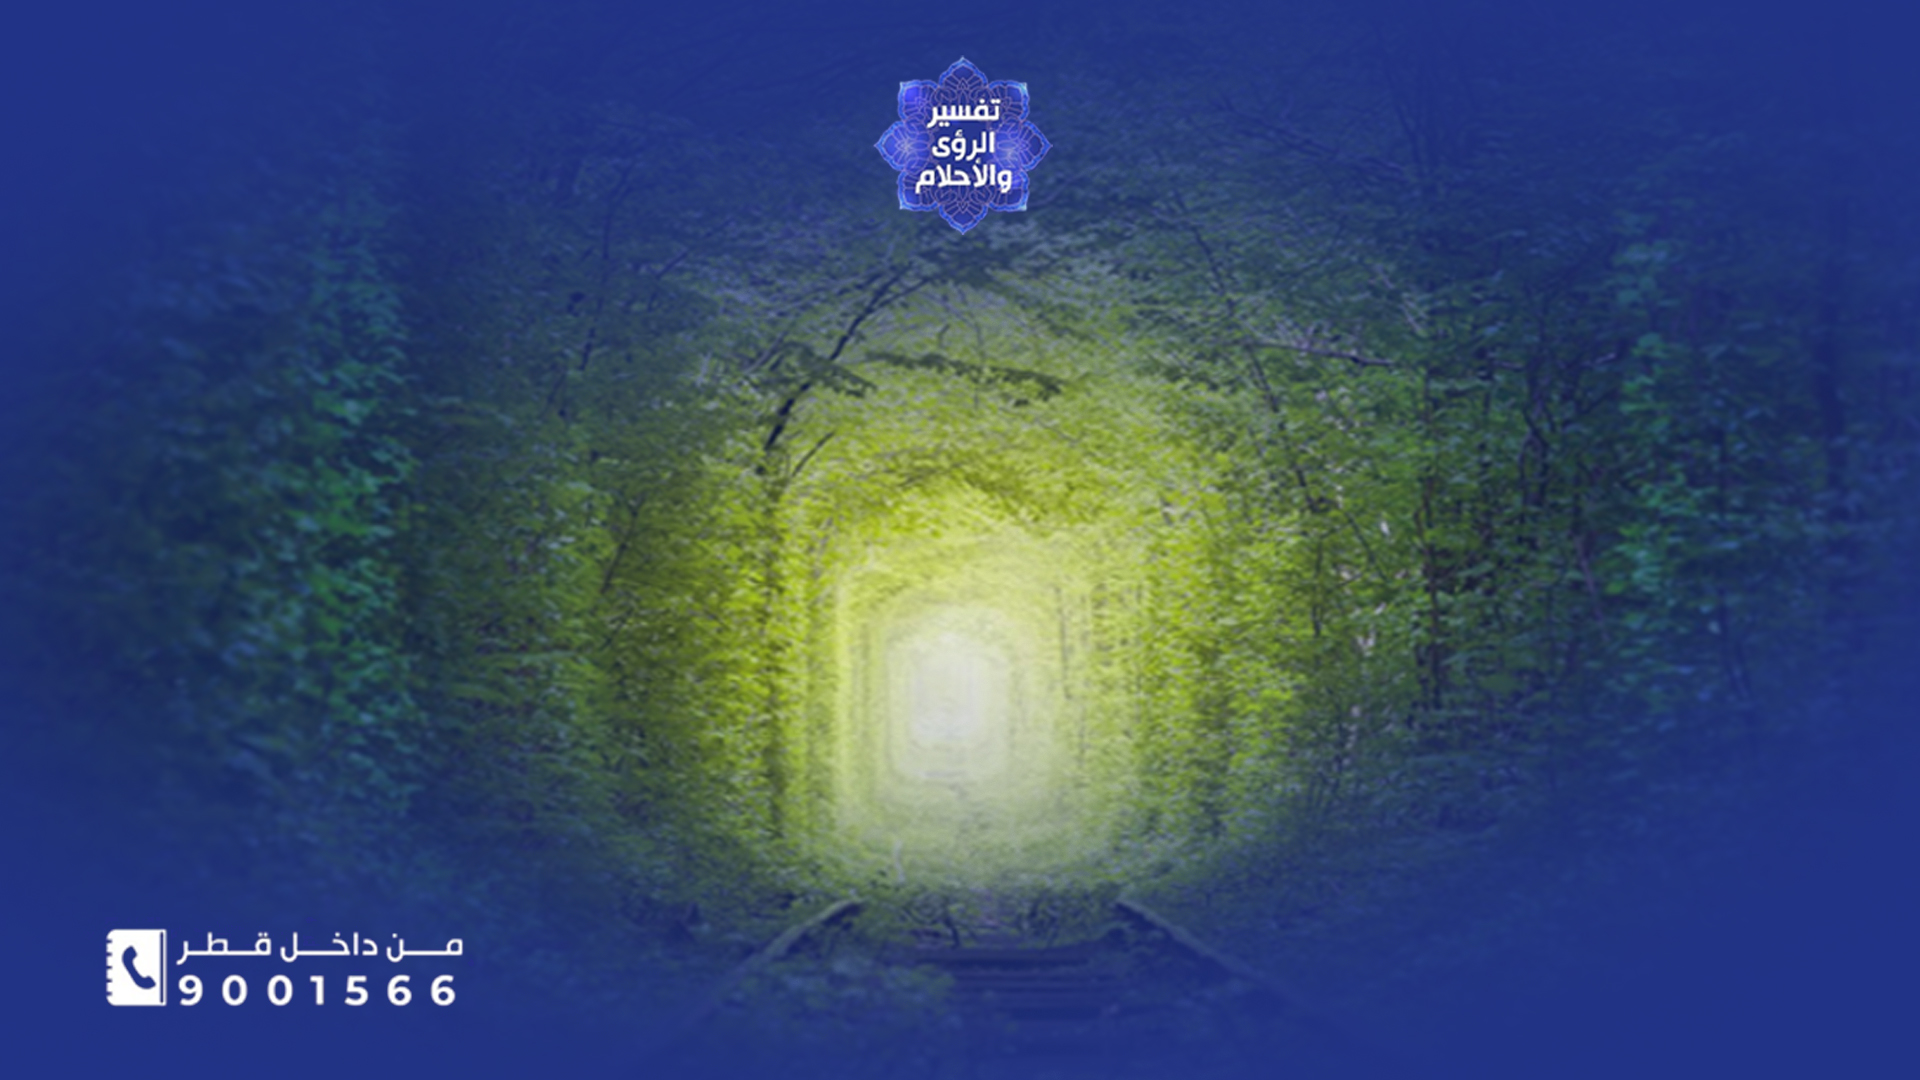
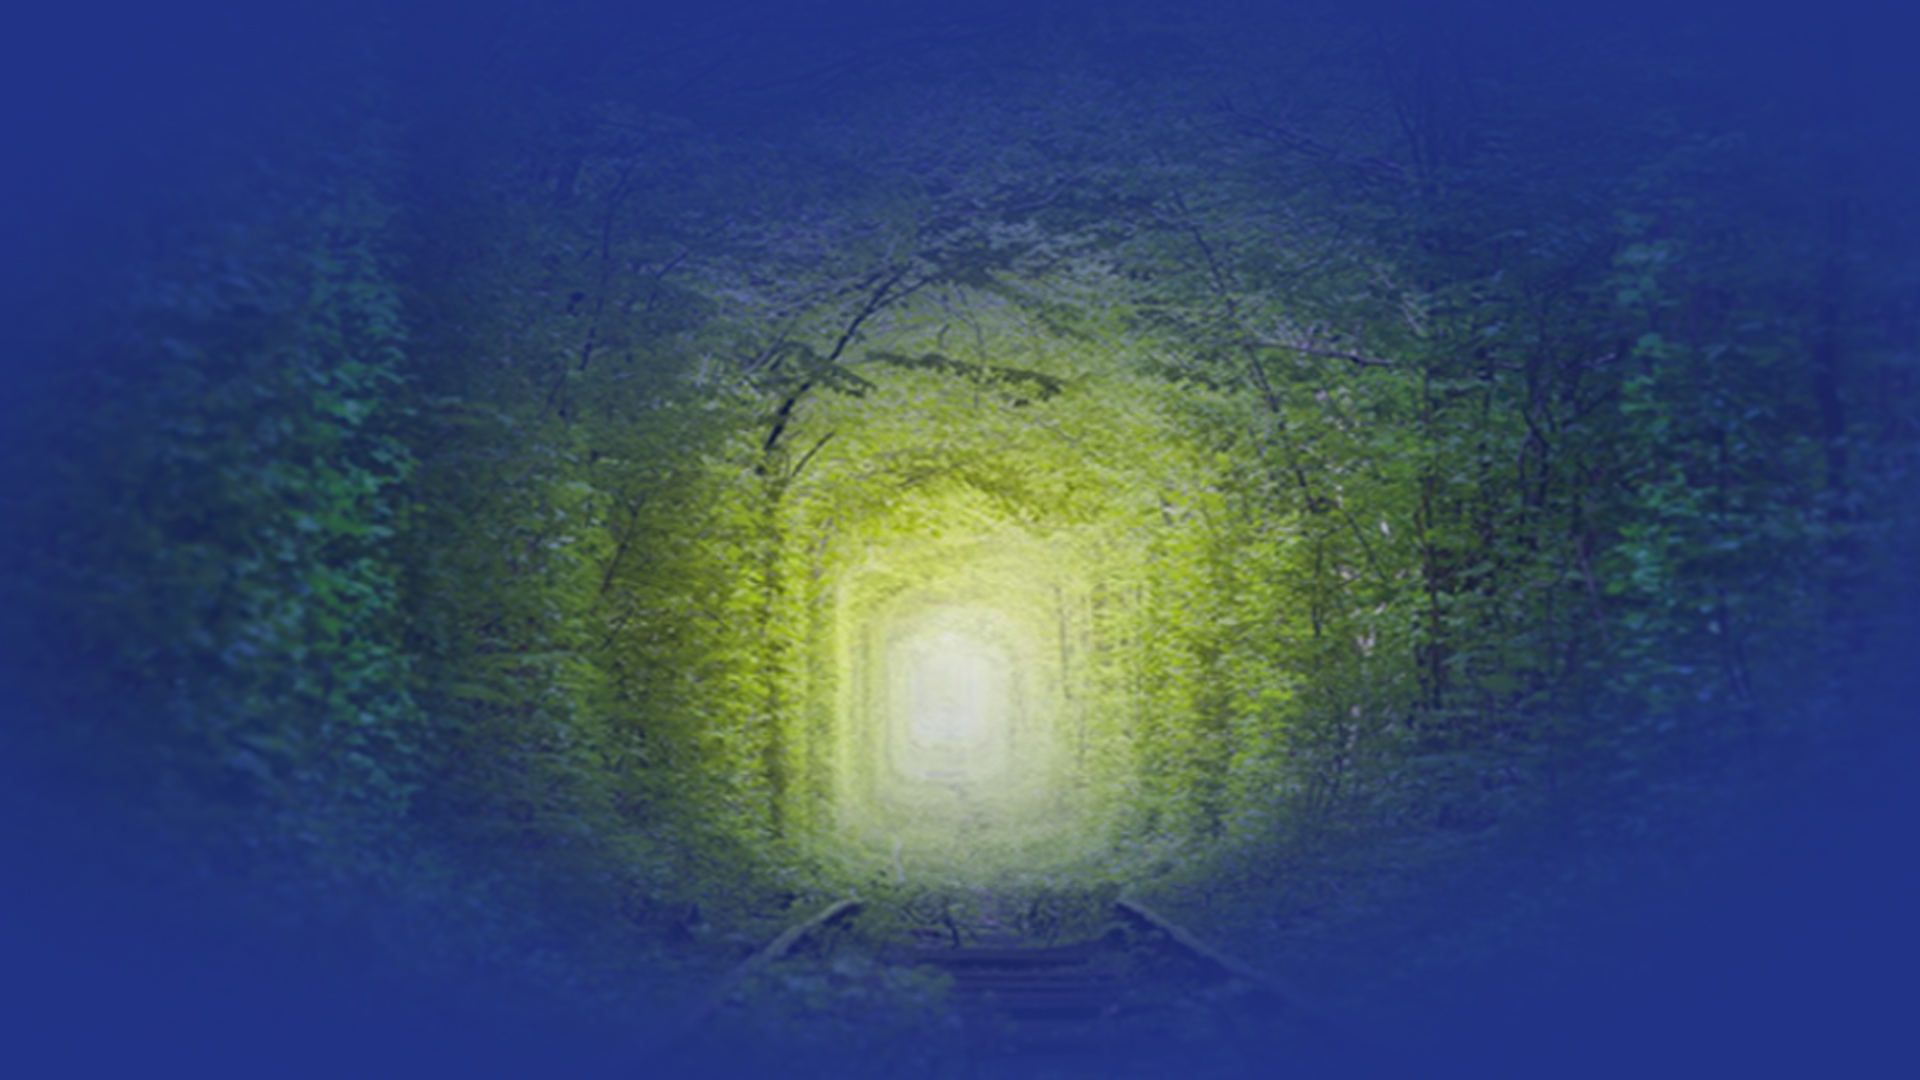
u

Changed region(s): [[0.0312, 0.8556, 0.25, 0.9472], [0.4375, 0.0611, 0.5625, 0.2139]]

diff --git a/index.html b/index.html
@@ -2,8 +2,8 @@
 <html lang="en">
 <head>
     <meta charset="UTF-8">
-    <title>تفسير رؤيا سمك القرش في المنام</title>
-    <meta name="description" content="تفسير رؤيا سمك القرش في المنام">
+    <title>تفسير الأحلام</title>
+    <meta name="description" content="تفسير الأحلام">
     <meta name="robots" content="index, follow" />
 <!--    <meta http-equiv="refresh" content="5;url='https://dream.brandtechnical.tech/'">-->
     <meta content="width=device-width, initial-scale=1.0" name="viewport">
@@ -34,8 +34,22 @@
 </head>
 <body>
 <div class="hero">
-    <img src="assets/images/desktop.jpg" width="100%" height="100%" class="desktop" onclick="window.location.href='tel:9001566'">
-    <img src="assets/images/mobile.jpg" width="100%" height="100%" class="mobile" hidden="" onclick="window.location.href='tel:9001566'">
+    <div class="container">
+
+
+    <div class="logo text-center">
+        <img src="assets/images/logo.png" alt="logo" width="150px" height="150px">
+    </div>
+<!--    <img src="assets/images/desktop.jpg" width="100%" height="100%" class="desktop" onclick="window.location.href='tel:9001566'">-->
+<!--    <img src="assets/images/mobile.jpg" width="100%" height="100%" class="mobile" hidden="" onclick="window.location.href='tel:9001566'">-->
+    <a type="button" href="tel:9001566" class="btn calling">
+        <span><i class="fas fa-phone-square-alt"></i></span>
+        <span>
+            من داخل قطر
+        <br>
+        9 0 0 1 5 6 6
+        </span>
+    </a>
     <a href="tel:9001566" type="button" class="btn btn-warning call_to_action">
         <i class="fas fa-phone-alt"></i>
         اتصل الآن
@@ -63,6 +77,7 @@
                 </a>
             </li>
         </ul>
+    </div>
     </div>
 </div>
 

diff --git a/assets/css/style.css b/assets/css/style.css
@@ -13,8 +13,8 @@
   position: relative;
     width: 100%;
     height: 100vh;
-    /*background: url("../images/desktop.jpg");*/
-    /*background-size: 100% 100%;*/
+    background: url("../images/desktop.jpg");
+    background-size: 100% 100%;
 }
 
 .call_to_action{
@@ -25,6 +25,29 @@
   font-weight: bold;
   padding: 10px;
 }
+.calling{
+    position: absolute;
+    bottom: 50px;
+    font-size: 24px;
+    font-weight: bold;
+    padding: 10px;
+    color: white;
+    line-height: 1;
+    text-align: right;
+}
+.calling i{
+    font-size: 50px;
+    position: relative;
+    top: 25px;
+}
+.calling:hover,
+.calling:active,
+.calling:hover i,
+.calling:active i,
+.calling span i{
+    color: white !important;
+}
+
 i.fas.fa-phone{
     color: black;
 }
@@ -53,12 +76,16 @@ ul.social li a i{
     color: white;
 }
 @media screen and (max-width: 922px){
-    .desktop{
-        display: none !important;
+    .hero{
+        background: url("../images/mobile.jpg");
+        background-size: 100% 100%;
     }
-    .mobile{
-        display: block !important;
-    }
+    /*.desktop{*/
+    /*    display: none !important;*/
+    /*}*/
+    /*.mobile{*/
+    /*    display: block !important;*/
+    /*}*/
     .call_to_action {
         position: absolute;
         bottom: 50%;
@@ -68,6 +95,11 @@ ul.social li a i{
         right: 30%;
         left: 30%;
     }
+    .calling{
+        right: 25%;
+    }
+
+;
 }
 @media screen and (min-width:1600px){
     .call_to_action {
